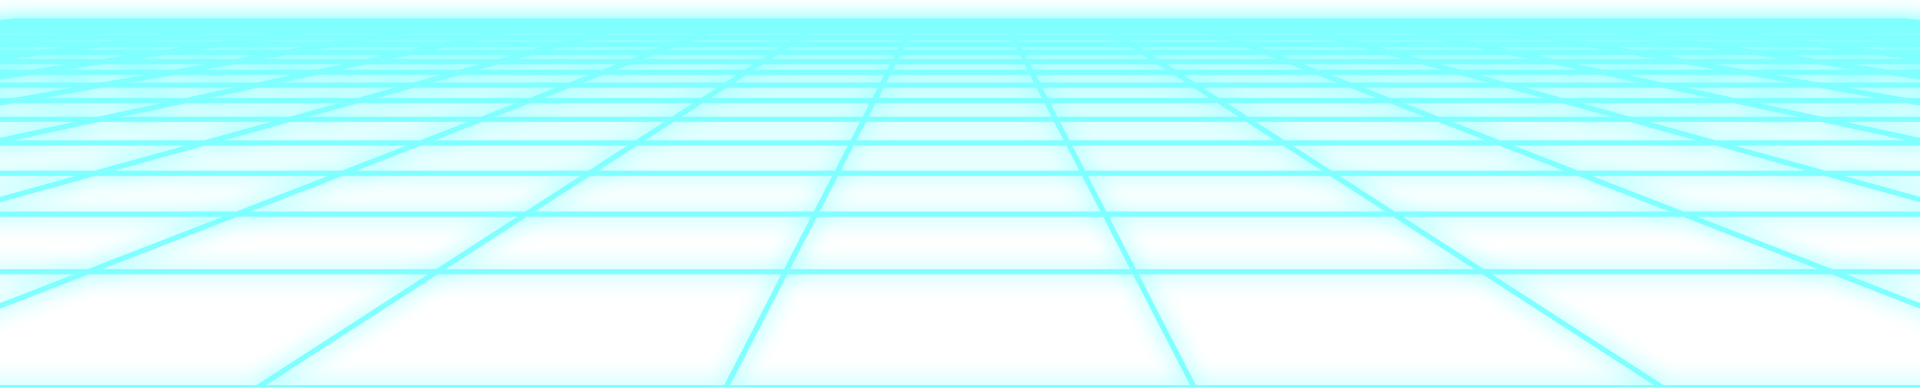
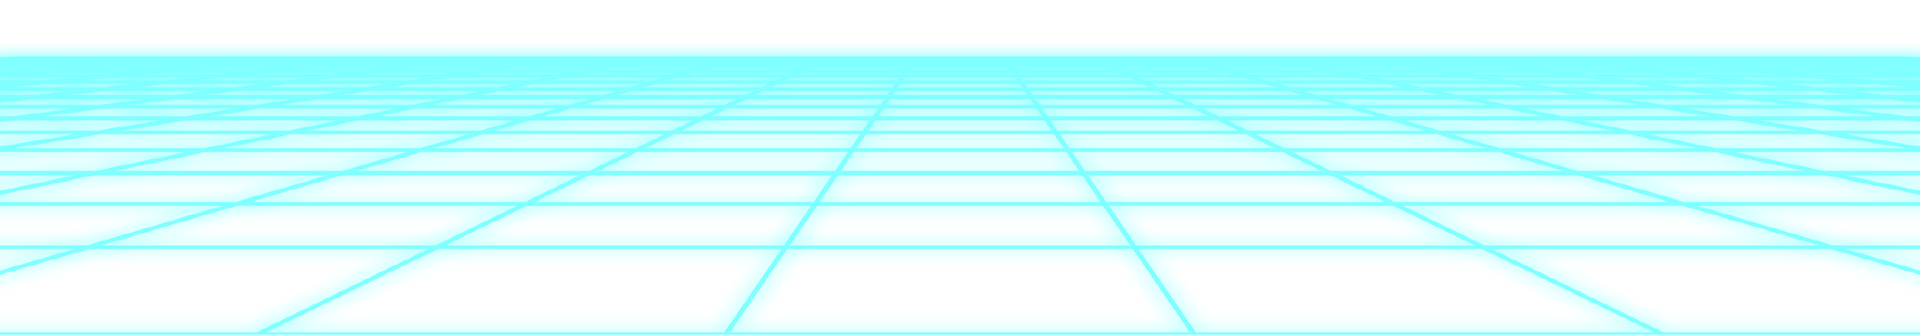
Fix typo on roadmap and add background for partners

diff --git a/src/Pages/Partners/styled.tsx b/src/Pages/Partners/styled.tsx
@@ -1,7 +1,8 @@
 import styled from 'styled-components'
 import { Flex, Heading } from '@metagg/mgg-uikit'
 import GridGradient from '../../assets/background/BGGridperspective.png'
-import GridGradientFlipped from '../../assets/background/bgpartner1@4xinverted.png'
+import GridGradientFlipped from '../../assets/background/BGGridperspectiveInverted.png'
+import BgGrid from '../../assets/background/BGGrid.png'
 
 export const Card = styled.div<{border?: string; fontSize?: string}>`
   background-color: #0c012c;
@@ -15,6 +16,11 @@ export const Card = styled.div<{border?: string; fontSize?: string}>`
   ${({fontSize}) => fontSize && `
     font-size: ${fontSize}px;
   `}
+  transition: transform 0.3s ease-in-out, box-shadow 0.3s ease-in-out;
+  &:hover {
+    transform: scale(1.1); /* Increases the size on hover */
+    box-shadow: 0 0 10px rgba(253, 218, 0, 0.7); /* Adds a yellow glow shadow effect */
+  }
 `;
 
 export const Logo = styled.img`
@@ -58,10 +64,10 @@ export const BgPage = styled.div`
   text-align: center;
   overflow: hidden;
   width: 100%;
-  height: 100%;
+  height: 98%;
   position: relative;
   background-color: ${({ theme }) => theme.addOnColors.background2};
-  /* background-image: url(${GridGradient}); */
+  background-image: url(${GridGradient});
   background-repeat: no-repeat;
   background-position: center top;
   background-size: contain;
@@ -73,7 +79,6 @@ export const BgPage = styled.div`
     width: 100%;
     height: 100%;
     z-index: 0;
-    /* background-image: url(${GridGradientFlipped}) */
     background-repeat: no-repeat;
     background-position: center bottom;
     background-size: contain;
@@ -110,6 +115,7 @@ export const PageTitle = styled(Heading)`
   border-radius: 15px;
   margin-bottom: 20px; /* Adjust the margin-bottom value as needed */
   text-align: center; /* Center text inside PageTitle */
+  background-color: ${({ theme }) => theme.addOnColors.background2};
 `
 
 export const Title = styled(Heading)`

diff --git a/src/Pages/Homepage/sections/styled.tsx b/src/Pages/Homepage/sections/styled.tsx
@@ -1,9 +1,8 @@
 import { Heading } from "@metagg/mgg-uikit";
 import styled from "styled-components";
-import BackgroundImage from "assets/background/GrowthBG.png";
-import BGLanding from "assets/background/BGLanding.png";
+import BackgroundImage from "assets/background/bgpartner2@4x.png";
+import BGLanding from "assets/background/bgpartner1@4x.png";
 import LandingLogo from "assets/background/LandingLogo.png";
-import bgimage from "assets/background/bgpartner2@4x.png";
 // Sections
 
 const SectionContainer = styled.div<{ height?: string }>`
@@ -20,14 +19,24 @@ export const HomeContainer = styled(SectionContainer)`
   background-position: center top;
 `;
 export const EcoContainer = styled(SectionContainer)`
-    height: 100%;
+  background-color: ${({ theme }) => theme.addOnColors.background2};
+   height: 100%;
   width: 100%;
-  background-image: url(${bgimage});
+  background-image: url(${BackgroundImage});
   background-size: cover;
   background-position: center;
   background-repeat: no-repeat;
+  `;
 
+export const NewsContainer = styled(SectionContainer)`
+  height: 100%;
+  width: 100%;
+  background-image: url(${BGLanding});
+  background-size: cover;
+  background-position: center;
+  background-repeat: no-repeat;
 `;
+
 
 export const GrowthContainer = styled(SectionContainer)`
   background-color: ${({ theme }) => theme.addOnColors.background1};

diff --git a/src/Pages/Homepage/sections/News.tsx b/src/Pages/Homepage/sections/News.tsx
@@ -4,7 +4,7 @@ import { Button, Flex, Text } from "@metagg/mgg-uikit";
 import { Grid } from "@mui/material";
 import { breakpoints } from "theme/Breakpoints";
 import { SvgProps } from "components/SvgIcon/types";
-import { EcoContainer, GlowTitle, PageTitle } from "./styled";
+import { EcoContainer, GlowTitle, NewsContainer, PageTitle } from "./styled";
 import { INews } from "config/constants/types";
 import { News } from "config/constants/homepageConfig";
 import * as IconModule from "./icons";
@@ -132,12 +132,12 @@ const Cards: React.FC = () => {
 const Section: React.FC = () => {
   return (
     
-    <EcoContainer height="100">
+    <NewsContainer height="100">
       <Container>
         <GlowTitle><PageTitle size="xl" >MGG NEWS AND UPDATE</PageTitle></GlowTitle>
         <Cards />
       </Container>
-    </EcoContainer>
+    </NewsContainer>
   );
 };
 

diff --git a/src/Pages/Whitepaper/whitepaper.tsx b/src/Pages/Whitepaper/whitepaper.tsx
@@ -25,7 +25,7 @@ const MggToken = () => {
       <PageContainer>
 
         <BgContainer  bgColor='#140937' size='cover' style={{alignItems: 'center', justifyContent: 'center'}}>
-          <Section style={{margin: '0 4rem 0 0', paddingTop: '9rem'}}>
+          <Section style={{margin: '0 0rem 0 0', paddingTop: '9rem'}}>
           <PageTitle style={{margin: '0 0rem 0 0'}} size='xxl' color={theme.colors.primary} >White Paper</PageTitle>
             <div style={{position: 'relative', zIndex: 1, width: '100%', maxWidth: '50rem'}}>
               <ImageGallery items={whitepaper} showPlayButton={false} thumbnailPosition='right' lazyLoad={true} />

diff --git a/src/Pages/Team/styled.ts b/src/Pages/Team/styled.ts
@@ -1,7 +1,7 @@
 import styled from 'styled-components'
 import { Heading, Flex } from '@metagg/mgg-uikit'
 import { breakpoints } from '../../theme/Breakpoints'
-import BackgroundImage from 'assets/background/bgpartner1@4x.png'
+import BackgroundImage from 'assets/background/BGGrid.png'
 
 const Container = styled.div`
   display: flex;
@@ -63,7 +63,7 @@ export const BgPage = styled.div`
     z-index: 0;
     background-color: ${({theme}) => theme.addOnColors.background1};
     background-repeat: no-repeat;
-    // background-position: center;
+    background-position: center;
     background-size: cover;
   }
 

diff --git a/src/config/constants/roadmaps.ts b/src/config/constants/roadmaps.ts
@@ -4,8 +4,8 @@ const roadmaps: RoadmapConfig = {
    2024 : {
     2024 : [
       {txt: "Official launch of MetaSaga Warriors", check: true},
-      {txt: "MSW Play to Aisdrop Season 1", check: true},
-      {txt: "Quartley BuyBack Program", check: true},
+      {txt: "MSW Play to Airdrop Season 1", check: true},
+      {txt: "Quarterly BuyBack Program", check: true},
       {txt: "Continue Onboarding of GameFi Partners and P2E players", check: true},
       {txt: "Revamp MGG website", check: true},
       {txt: "Blockchain Validator / Operator Rollout ", check: true},

diff --git a/src/Pages/Roadmap/styled.tsx b/src/Pages/Roadmap/styled.tsx
@@ -7,6 +7,7 @@ export const Card = styled.div`
   border-radius: 0.5rem;
   padding: 2rem;
   z-index: 3;
+  background-color: ${({ theme }) => theme.addOnColors.background2};
 `
 
 export const CardContainer = styled.div`
